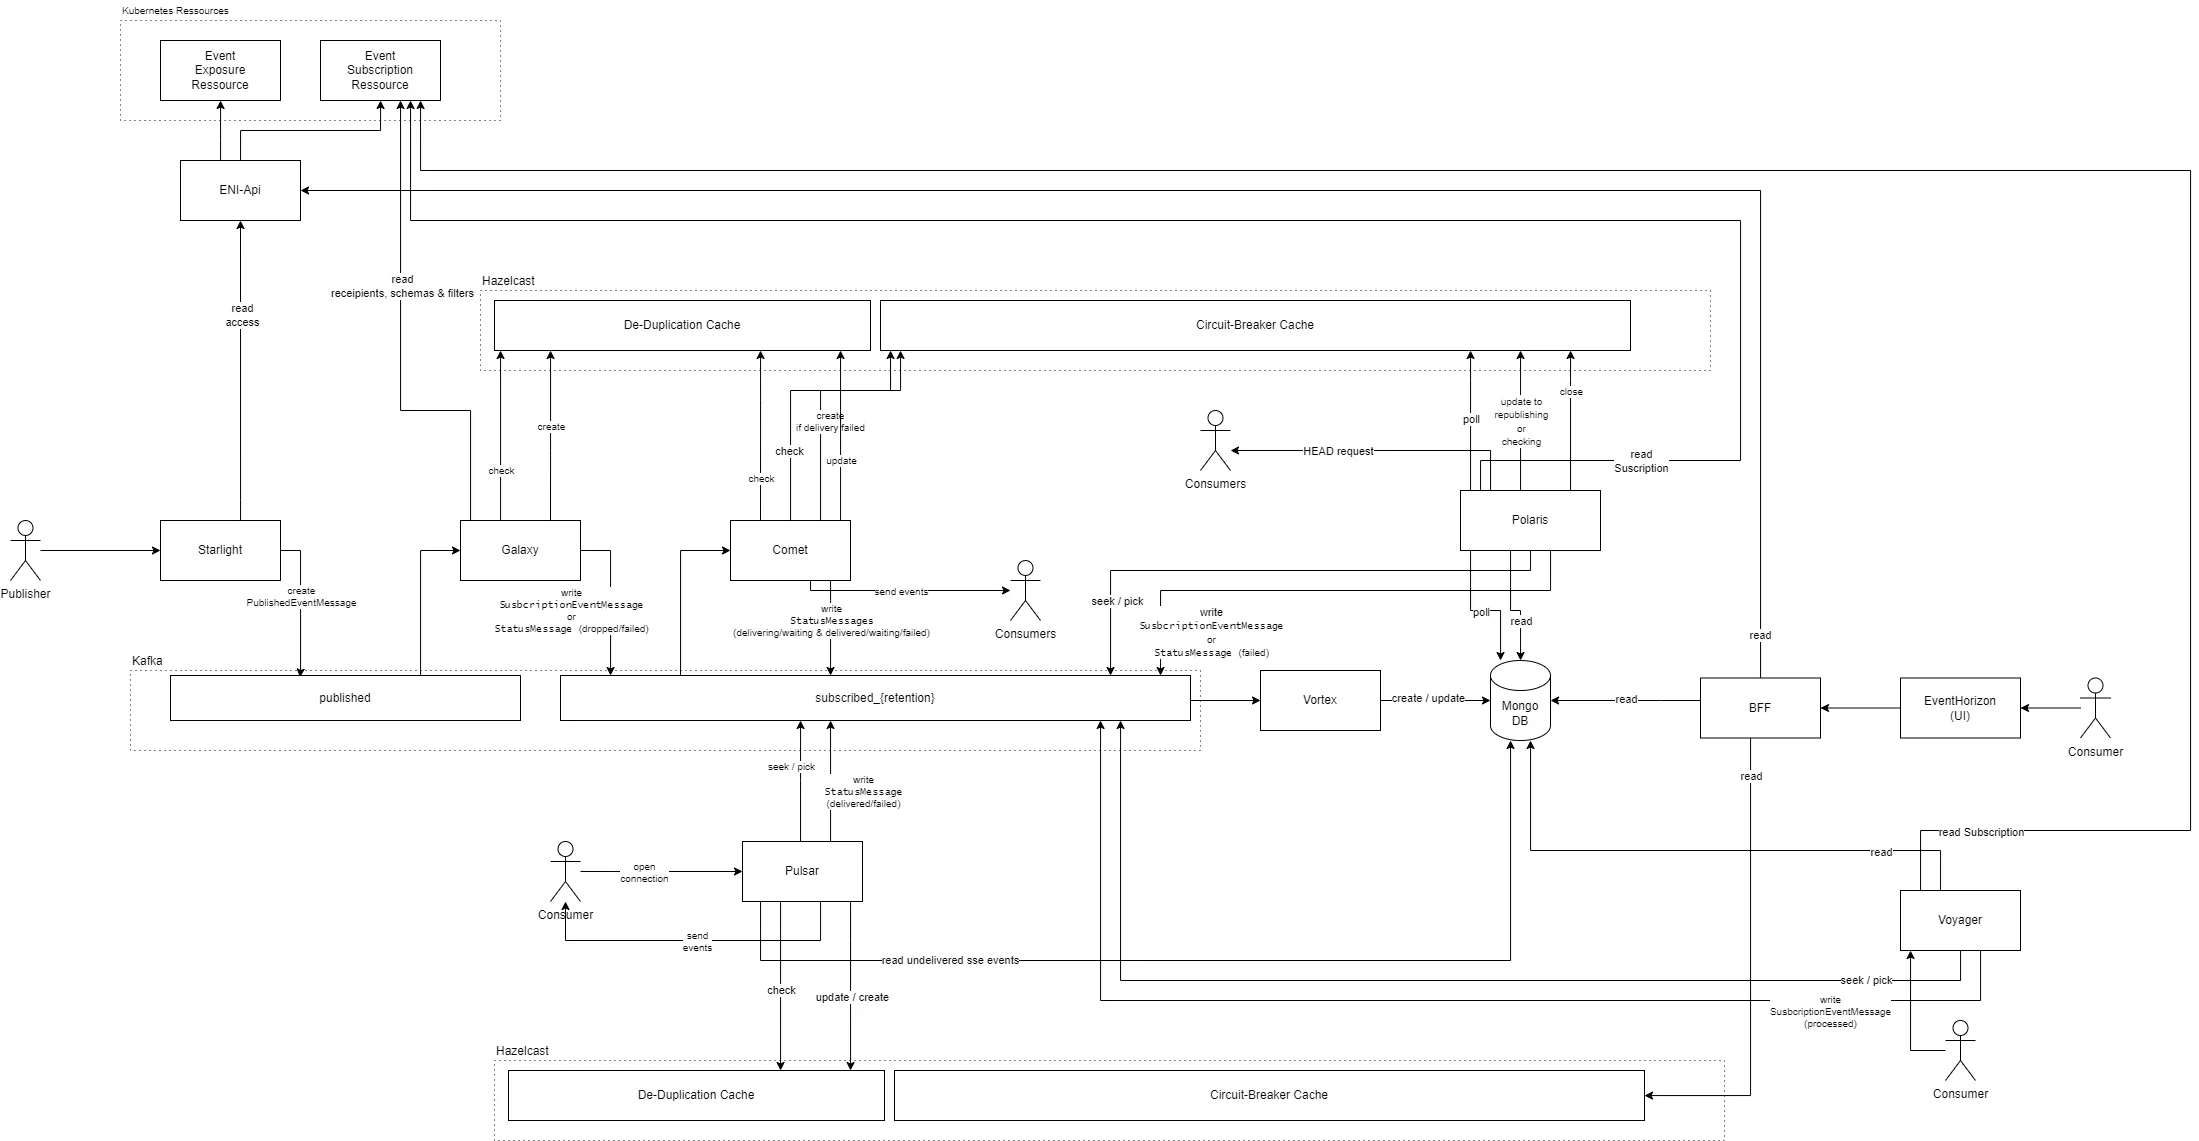
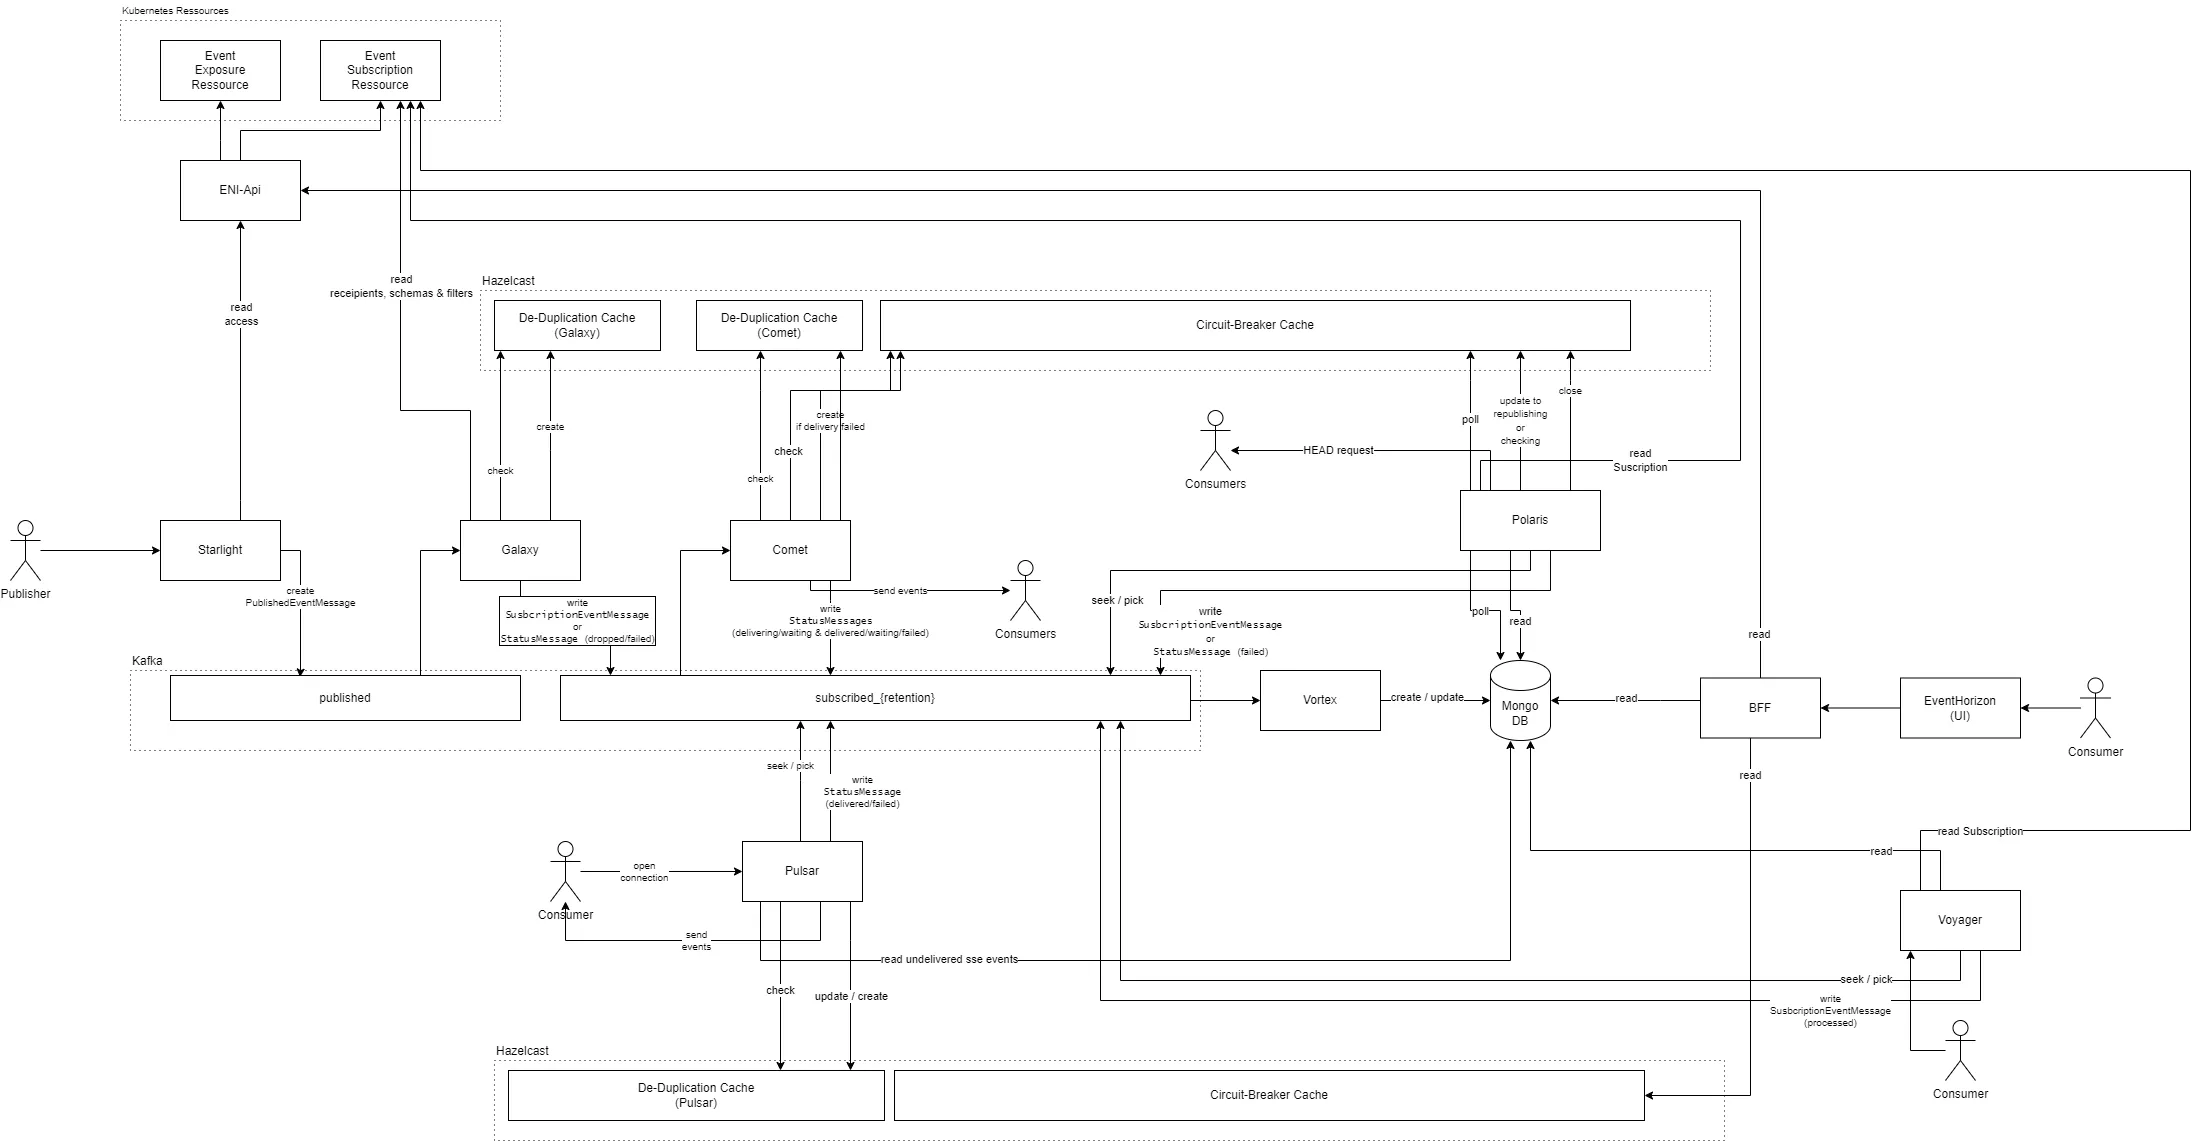
More detailed architecture information

diff --git a/docs/architecture.md b/docs/architecture.md
@@ -6,3 +6,20 @@ It should be read from any entrypoint (Starlight, Pulsar, Voyager) to the right.
 
 For a more detailed flowchart, please check the documentation of each component.
 
+As visible in the diagram above, a publisher can start an event flow by sending a POST request to Starlight. This POST request will be the published event. Starlight will check the authentication, authorization, and check the information about the event type against with help of the ENI-Api. After all successful checks, Starlight will create a published event message and write it into the "published" Kafka topic. 
+
+Our Galaxy component listens on that "published" topic and receives that event. Furthermore, it asks the ENI-Api for recipients, schema validation & filters. It applies them and creates a subscription event message for each recipient. This subscription event message gets checked in the De-Duplication Cache, if it already exists, Galaxy will skip the subscription event message, if it was not found in the De-Duplication Cache it will write into the retention-time-based "subscribed" topic with the status PROCESSED and create an entry in the De-Duplication Cache. 
+
+Our delivery component Comet listens on all "subscribed" topics and handles the messages. Once it receives a message, Comet will check if already send that subscription event message in the De-Duplication Cache. Important to know is that the De-Duplication Caches are not shared between Galaxy and Comet, they are only shared between the pods of the components. Each component has its own De-Duplication Cache. If a duplicate was found the event gets flagged as DUPLICATE and skipped. If it was not found Comet will check if a Circuit-Breaker is open for that specific subscription-id. If an open Circuit-Breaker was found, Comet will flag the event as WAITING and skip processing. Else it will flag the event as DELIVERING and send the event to the consumer. If a consumer answers successfully the event gets flagged as DELIVERED. If the consumer answers with a non-retryable error-code the event gets flagged as FAILED. If the consumer answers multiple times with a retry-able error code, the event gets set to WAITING and a Circuit-Breaker for that subscription-id will be opened.
+
+In a configurable interval (ex. 30 sec) Polaris will check for open Circuit-Breakers and handle them. Polaris will split the open Circuit-Breaker messages by hashing the callback-url for the given subscription and applying a modulo with the number of active pods. Therefore only one pod will grab that message and assign itself to it. Afterward, it will spawn a health thread and periodically send a HEAD or GET request (configurable in the subscription) to the consumer's endpoint. Only if the request is successful, Polaris will grab all WAITING events for all corresponding subscriptions, pick them from the correct Kafka topics (subscribed), reset them to PROCESSED and write them again into the subscribed topic. Therefore Comet will pick them up and redeliver them. If a consumer builds a loop, by having an available HEAD endpoint, but an unavailable POST endpoint, Polaris will increase the health check interval up to 1 hour. Meaning in a worst-case, events will only get republished every hour.
+
+This is the event flow for the CALLBACK return type. For the SSE (Server-Sent-Event) return type, Comet will ignore these events and they will stay on PROCESSED. 
+If a consumer wants to grab his SSE events, they have to send an SSE request to Pulsar. 
+Pulsar will then lookup for the PROCESSED messages of the consumer's subscription. Each message gets checked in the De-Duplication Cache like in the other components. Afterwards, Pulsar will pick the event from the correct Kafka topic (subscribed) and send it over the SSE connection to the consumer. After a successful delivery, the event gets written into the De-Duplication Cache and set to DELIVERED. When all events were sent to the consumer the connection will stay open for 60 more minutes. If no event arrives in that 60 seconds the connection will be closed. Else the incoming events will be forwarded to the consumer. This will repeat until there are no more new events for 60 seconds. 
+
+To view the status of all events, publishers, and consumers can access EventHorizon. 
+EventHorizon connects to the EventHorizon-BFF, which loads all data from inside the database. 
+Users can also watch their event payload, for that the BFF will pick the events from the correct subscribed topic. 
+
+If a consumer wants to redeliver an event because they may have lost it on their side or it was set to FAILED, the consumer can trigger a republishment by using the Voyager. For that, a consumer can do a GET request and query for specific events. The Voyager will return with the event ids and additional information. With that ids, the consumers can do a POST request to the Voyager. Then Voyager will pick these events in the Kafka and do a republishment like described in Polaris.
